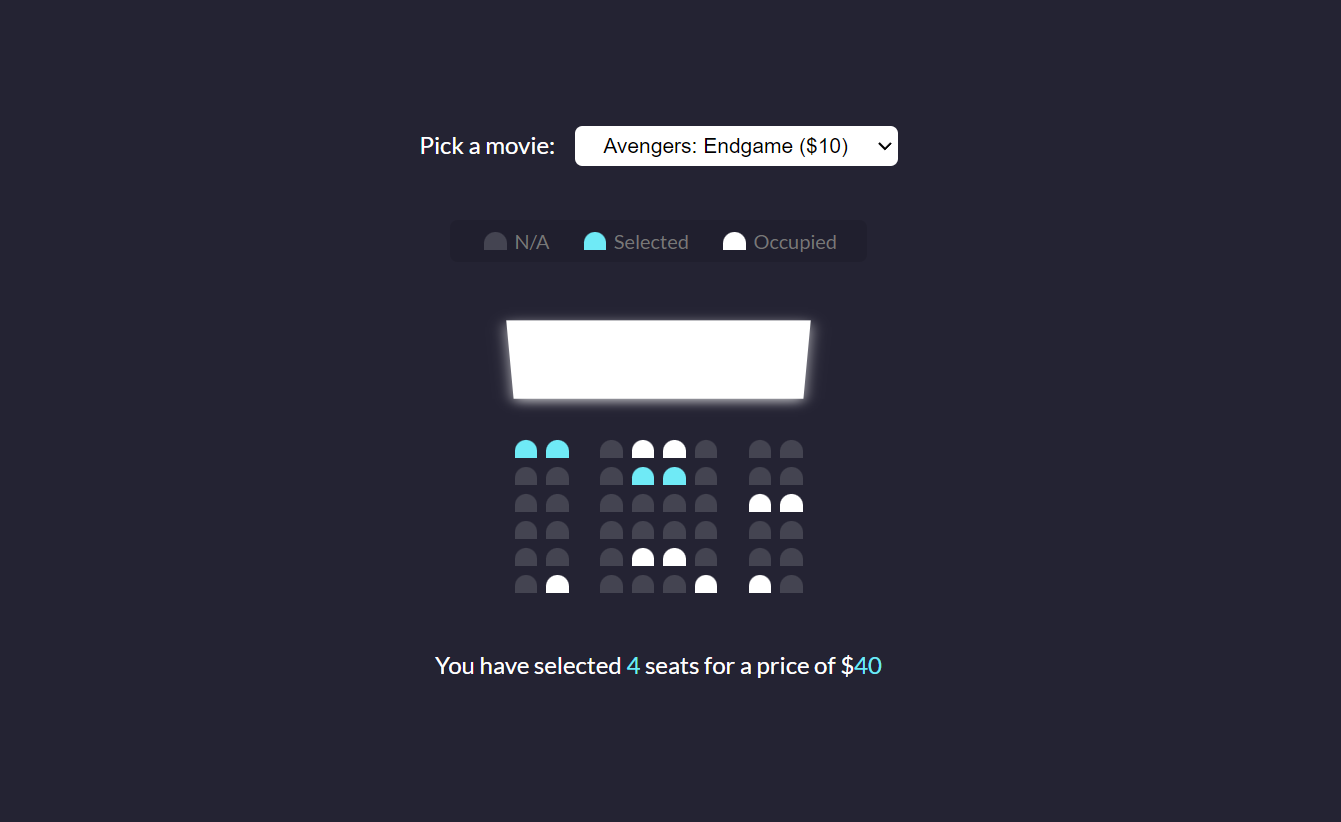
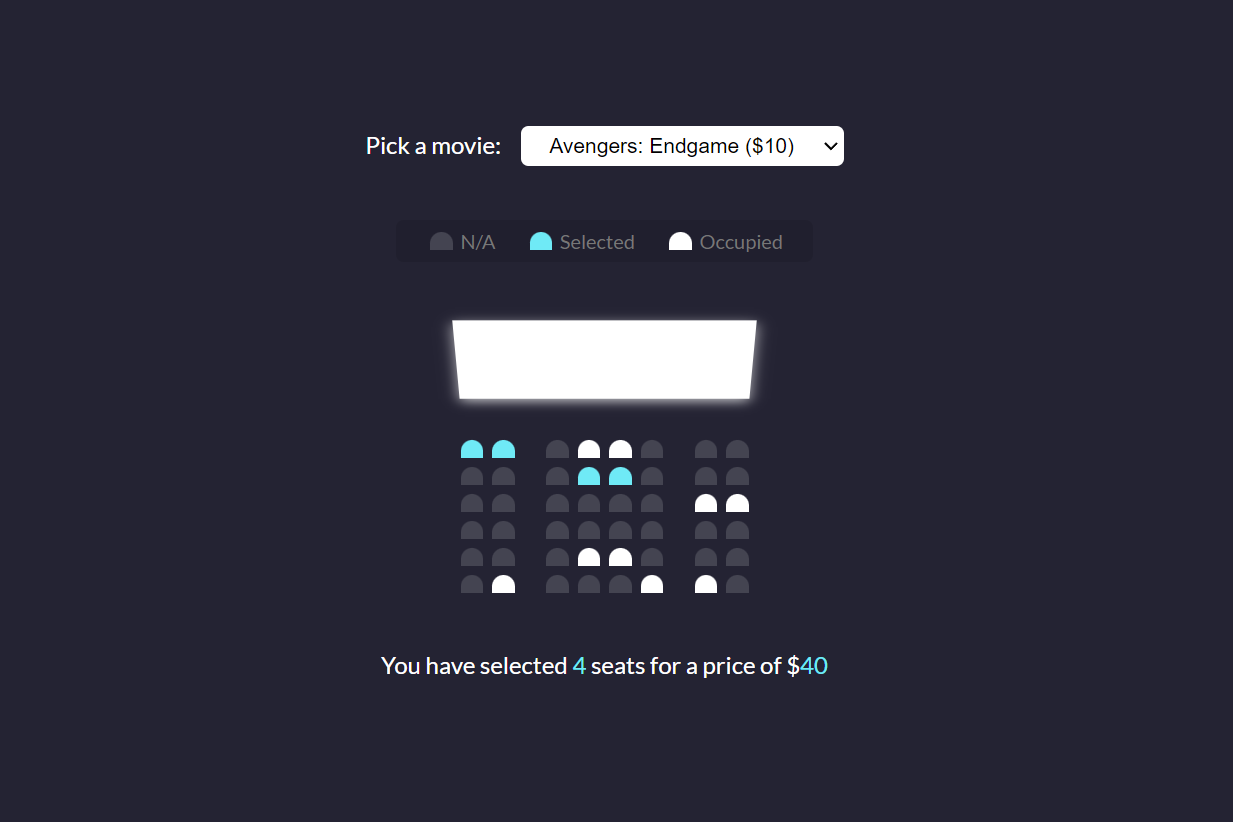
feat: update projects info

diff --git a/src/data/index.js b/src/data/index.js
@@ -1,7 +1,7 @@
-import { news } from '../assets';
+import { moviePick, movie, memory, landing, qrates, calorieTracker } from '../assets';
 import { FaGithub, FaLinkedin } from "react-icons/fa";
 import { IoMdMail } from "react-icons/io";
-import { SiBem, SiWebpack, SiFigma, SiJavascript, SiCss3, SiReact, SiHtml5, SiVitest, SiGit, SiSass } from "react-icons/si";
+import { SiBem, SiWebpack, SiFigma, SiJavascript, SiCss3, SiReact, SiHtml5, SiVitest, SiGit, SiSass, SiSwiper } from "react-icons/si";
 
 export const navLinks = [
   // {
@@ -92,21 +92,29 @@ export const spokenLanguages = [
 export const projects = [
   { 
     id: 'project-1', 
-    title: 'Movie App',
+    title: 'Discover Movie App',
     description: 'Responsive website homepage adapted for different users devices, including interactive mobile navigation',
-    image: news,
+    image: movie,
     stack: [
       {
         name: 'HTML5',
         icon: SiHtml5
       },
       {
-        name: 'Sass',
-        icon: SiSass
+        name: 'CSS',
+        icon: SiCss3
       },
       {
         name: 'JavaScript',
         icon: SiJavascript
+      },
+      {
+        name: 'Swiper.js',
+        icon: SiSwiper
+      },
+      {
+        name: 'Vite',
+        icon: SiVitest
       }
     ],
     demo: 'https://movie-app-msb.netlify.app',
@@ -116,7 +124,7 @@ export const projects = [
     id: 'project-2', 
     title: 'Memory Game',
     description: 'Responsive website homepage adapted for different users devices, including interactive mobile navigation',
-    image: news,
+    image: memory,
     stack: [
       {
         name: 'HTML5',
@@ -124,11 +132,15 @@ export const projects = [
       },
       {
         name: 'CSS',
-        icon: SiSass
+        icon: SiCss3
       },
       {
         name: 'JavaScript',
         icon: SiJavascript
+      },
+      {
+        name: 'Vite',
+        icon: SiVitest
       }
     ],
     demo: 'https://janeund.github.io/memory-game/index.html',
@@ -136,9 +148,35 @@ export const projects = [
   },
   { 
     id: 'project-3', 
-    title: 'Music Services Website',
+    title: 'Calorie Tracker App',
     description: 'Responsive website homepage adapted for different users devices, including interactive mobile navigation',
-    image: news,
+    image: calorieTracker,
+    stack: [
+      {
+        name: 'HTML5',
+        icon: SiHtml5
+      },
+      {
+        name: 'SCSS',
+        icon: SiSass
+      },
+      {
+        name: 'JavaScript',
+        icon: SiJavascript
+      },
+      {
+        name: 'Webpack',
+        icon: SiWebpack
+      }
+    ],
+    demo: 'https://tracking-calories.netlify.app/',
+    github: 'https://github.com/janeund/calorie-tracker'
+  },
+  { 
+    id: 'project-4', 
+    title: 'Movie Seat Booking',
+    description: 'Responsive website homepage adapted for different users devices, including interactive mobile navigation',
+    image: moviePick,
     stack: [
       {
         name: 'HTML5',
@@ -151,38 +189,46 @@ export const projects = [
       {
         name: 'JavaScript',
         icon: SiJavascript
+      },
+      {
+        name: 'Vite',
+        icon: SiVitest
+      }
+    ],
+    demo: 'https://janeund.github.io/movie-booking/',
+    github: 'https://github.com/janeund/movie-booking'
+  },
+  { 
+    id: 'project-5', 
+    title: 'Music Services Website',
+    description: 'Responsive website homepage adapted for different users devices, including interactive mobile navigation',
+    image: qrates,
+    stack: [
+      {
+        name: 'HTML5',
+        icon: SiHtml5
+      },
+      {
+        name: 'CSS',
+        icon: SiCss3
+      },
+      {
+        name: 'JavaScript',
+        icon: SiJavascript
+      },
+      {
+        name: 'Vite',
+        icon: SiVitest
       }
     ],
     demo: 'https://janeund.github.io/qrates/',
     github: 'https://github.com/janeund/qrates'
   },
   { 
-    id: 'project-4', 
-    title: 'Calorie Tracker App',
-    description: 'Responsive website homepage adapted for different users devices, including interactive mobile navigation',
-    image: news,
-    stack: [
-      {
-        name: 'HTML5',
-        icon: SiHtml5
-      },
-      {
-        name: 'CSS',
-        icon: SiSass
-      },
-      {
-        name: 'JavaScript',
-        icon: SiJavascript
-      }
-    ],
-    demo: 'https://janeund.github.io/qrates/',
-    github: 'https://github.com/janeund/calorie-tracker'
-  },
-  { 
-    id: 'project-5', 
+    id: 'project-6', 
     title: 'Marketing Agency Landing page',
     description: 'Responsive website homepage adapted for different users devices, including interactive mobile navigation',
-    image: news,
+    image: landing,
     stack: [
       {
         name: 'HTML5',
@@ -195,32 +241,14 @@ export const projects = [
       {
         name: 'JavaScript',
         icon: SiJavascript
+      },
+      {
+        name: 'Webpack',
+        icon: SiWebpack
       }
     ],
     demo: 'https://janeund.github.io/marketing-agency/dist/',
     github: 'https://github.com/janeund/marketing-agency'
-  },
-  { 
-    id: 'project-6', 
-    title: 'Custom Video Player',
-    description: 'Responsive website homepage adapted for different users devices, including interactive mobile navigation',
-    image: news,
-    stack: [
-      {
-        name: 'HTML5',
-        icon: SiHtml5
-      },
-      {
-        name: 'CSS',
-        icon: SiSass
-      },
-      {
-        name: 'JavaScript',
-        icon: SiJavascript
-      }
-    ],
-    demo: 'https://janeund.github.io/custom-video-player/',
-    github: 'https://github.com/janeund/custom-video-player'
   },
 ];
 

diff --git a/src/assets/index.js b/src/assets/index.js
@@ -1,6 +1,11 @@
 import photo from "./photo.jpg";
 import CV from "./CV_Evgeniia_Zhavoronkova.pdf";
+import movie from "./movie-app.png";
+import moviePick from './movie.png'
+import calorieTracker from "./calorie-tracker.png";
+import memory from "./memory-game.png";
 import landing from "./landing.png";
+import qrates from "./qrates.png";
 import news from "./news.png";
 import topSvg from './top.svg';
 import top1Svg from './top1.svg';
@@ -9,7 +14,13 @@ import top1Svg from './top1.svg';
 export {
   photo,
   CV,
+  memory,
   news,
   topSvg,
-  top1Svg
+  top1Svg,
+  movie,
+  moviePick,
+  calorieTracker,
+  qrates,
+  landing
 }

diff --git a/src/components/Project.jsx b/src/components/Project.jsx
@@ -5,7 +5,9 @@ import { TfiWorld } from "react-icons/tfi";
 function Project({id, title, description, image, stack, demo, github}) {
   return (
     <li key={id} className="py-7 px-6 bg-white rounded-xl drop-shadow-xl">
-      <img src={image} alt={title} className="mb-4"/>
+      <div className="min-h-52">
+        <img src={image} alt={title} className="mb-4"/>
+      </div>
       <h3 className="font-medium mb-2">{title}</h3>
       <p className="mb-3 text-[15px] leading-5">{description}</p>
       <ul className="flex gap-2 flex-wrap mb-7">
